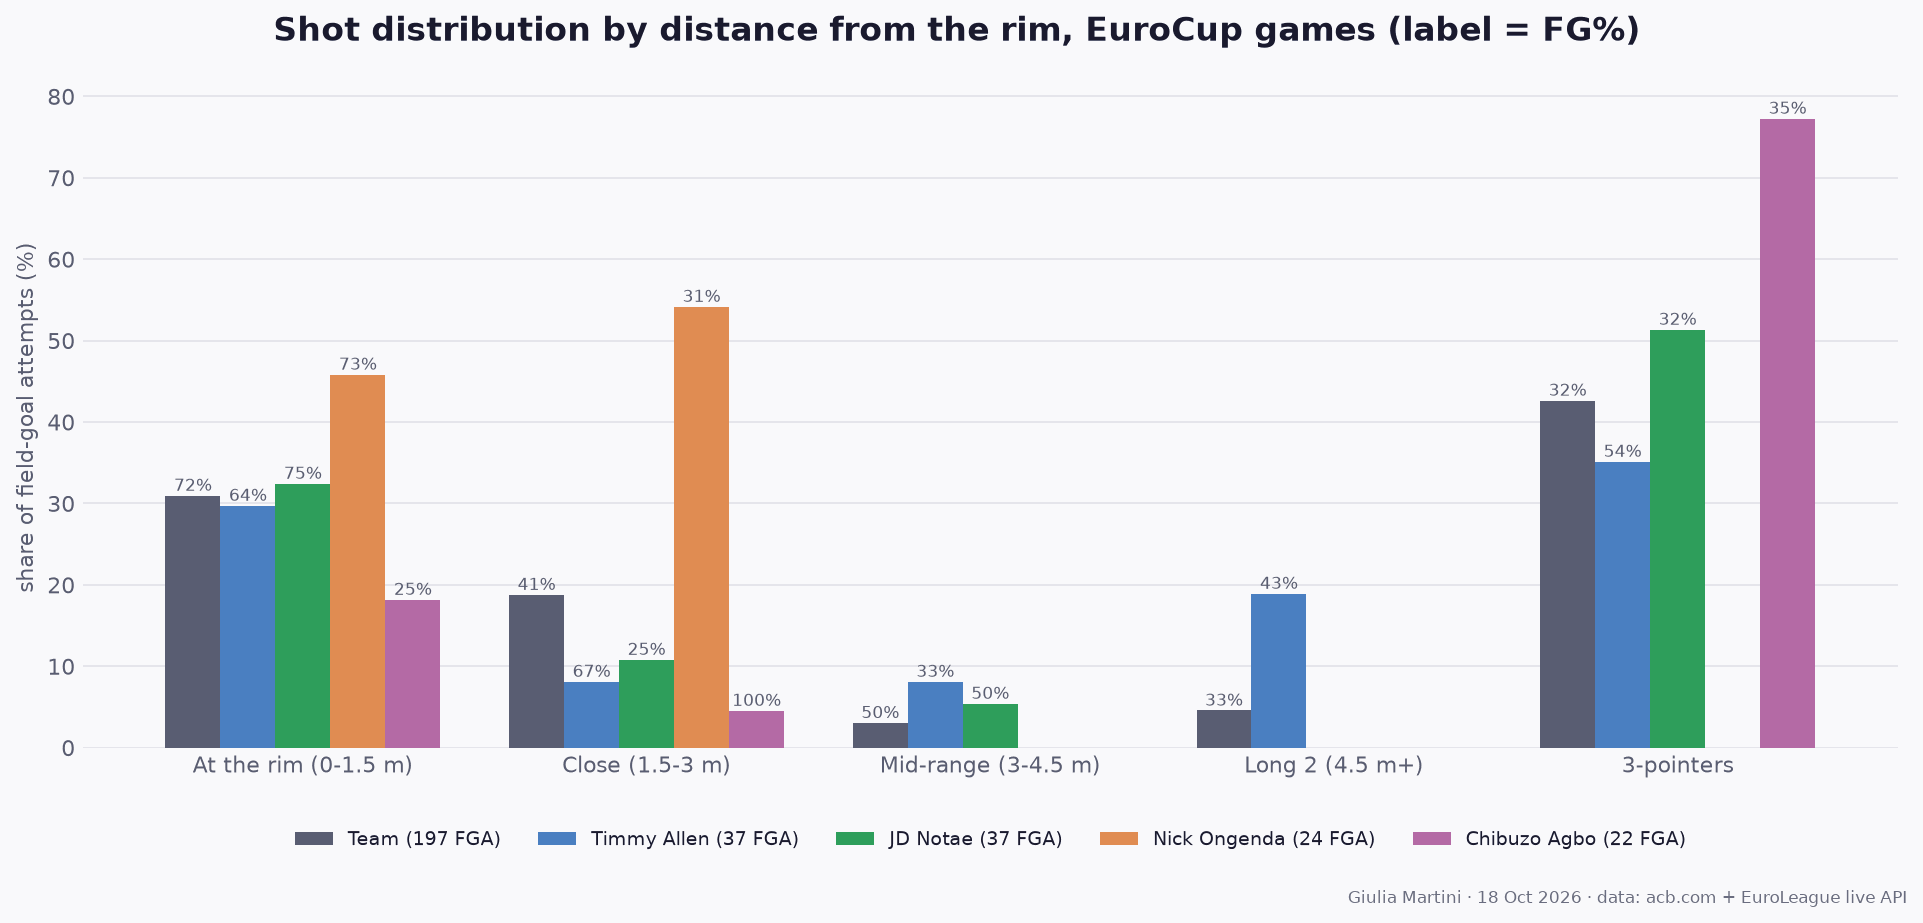
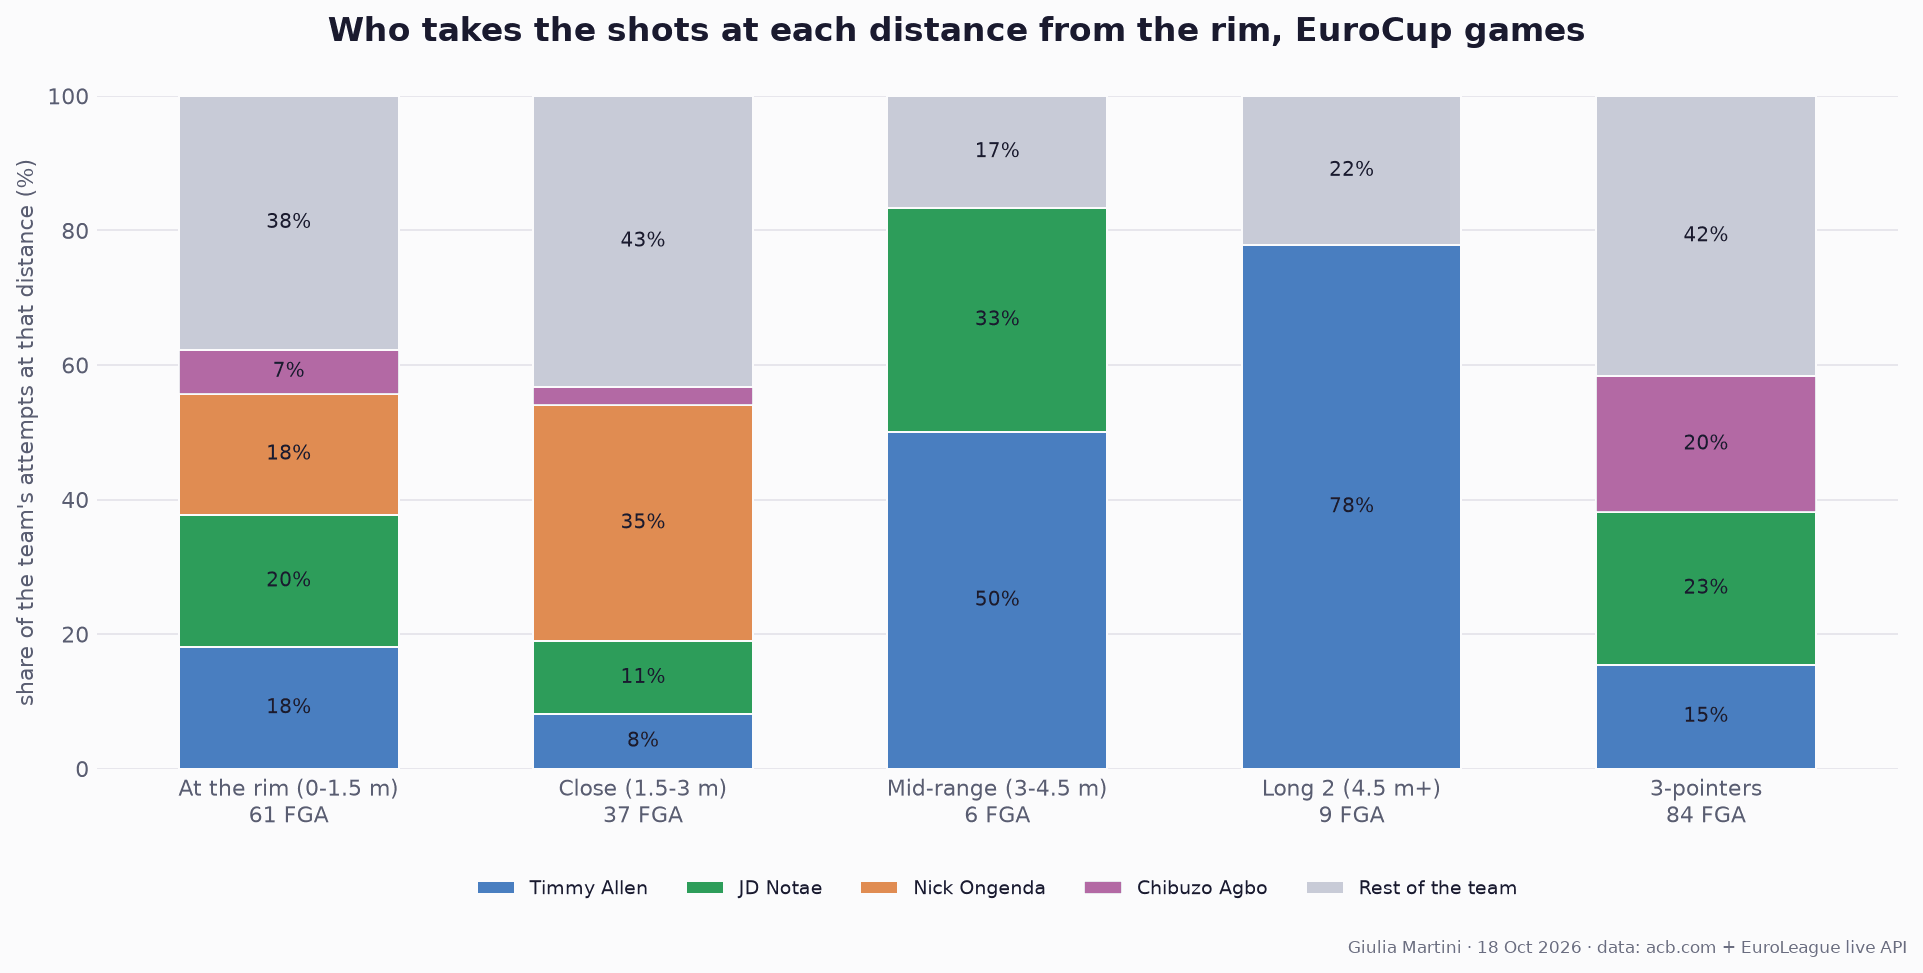
Manresa report: stacked shot-distance chart (main scorers + rest = 100%)

diff --git a/notebooks/manresa_report.py b/notebooks/manresa_report.py
@@ -207,24 +207,33 @@ def distance_table(shots: pd.DataFrame, scorers: list[str]) -> pd.DataFrame:
     return pd.concat(cols, axis=1)
 
 
-def fig_distance(table: pd.DataFrame, out: Path) -> Path:
-    """Grouped bars: share of attempts by distance for the team and each main scorer, FG% on top."""
-    names = table.columns.get_level_values(0).unique()
-    fig, ax = plt.subplots(figsize=(12, 5.5))
-    width = 0.8 / len(names)
-    palette = [TEXT2, BLUE, GREEN, "#e08c52", "#b46aa5"]
-    for k, name in enumerate(names):
-        x = np.arange(len(DIST_LABELS)) + k * width
-        share, fg, att = table[name].share, table[name].fg, table[name].att
-        ax.bar(x, share, width, label=f"{name} ({int(att.sum())} FGA)", color=palette[k % len(palette)])
-        for xi, sh, pct, n in zip(x, share, fg, att):
-            if n:
-                ax.text(xi, sh + 0.6, f"{pct:.0f}%", ha="center", fontsize=7.5, color=TEXT2)
-    ax.set_xticks(np.arange(len(DIST_LABELS)) + width * (len(names) - 1) / 2, DIST_LABELS)
-    ax.set_ylabel("share of field-goal attempts (%)")
+def attempt_split(shots: pd.DataFrame, scorers: list[str]) -> pd.DataFrame:
+    """Per distance bin: each main scorer's share of the team's attempts, plus the rest (sums to 100)."""
+    who = shots.player.where(shots.player.isin(scorers), "Rest of the team")
+    counts = pd.crosstab(shots.bin, who).reindex(index=DIST_LABELS, columns=scorers + ["Rest of the team"],
+                                                 fill_value=0)
+    return counts.div(counts.sum(axis=1), axis=0) * 100, counts.sum(axis=1)
+
+
+def fig_distance(split: pd.DataFrame, totals: pd.Series, out: Path) -> Path:
+    """Stacked bars per distance: who takes the team's shots (main scorers + rest = 100%)."""
+    palette = [BLUE, GREEN, "#e08c52", "#b46aa5", "#c9ccd8"]
+    fig, ax = plt.subplots(figsize=(12, 5.8))
+    bottom = np.zeros(len(split))
+    for color, name in zip(palette, split.columns):
+        ax.bar(range(len(split)), split[name], bottom=bottom, color=color, label=name, width=0.62,
+               edgecolor="white", linewidth=0.8)
+        for i, val in enumerate(split[name]):
+            if val >= 6:
+                ax.text(i, bottom[i] + val / 2, f"{val:.0f}%", ha="center", va="center", fontsize=9,
+                        color=TEXT)
+        bottom += split[name].values
+    ax.set_xticks(range(len(split)), [f"{label}\n{int(totals[label])} FGA" for label in split.index])
+    ax.set_ylim(0, 100)
+    ax.set_ylabel("share of the team's attempts at that distance (%)")
     style_axes(ax, "y")
-    ax.legend(ncols=len(names), loc="upper center", bbox_to_anchor=(0.5, -0.1), fontsize=8.5)
-    fig.suptitle("Shot distribution by distance from the rim, EuroCup games (label = FG%)", **SUP_KW)
+    ax.legend(ncols=len(split.columns), loc="upper center", bbox_to_anchor=(0.5, -0.14), fontsize=8.5)
+    fig.suptitle("Who takes the shots at each distance from the rim, EuroCup games", **SUP_KW)
     path = out / "03_shot_distance.png"
     save_fig(fig, path)
     plt.close(fig)
@@ -296,7 +305,7 @@ def extra_sections(starters: pd.DataFrame, assists: pd.DataFrame, matrix: pd.Dat
     L += ["", "## Shot distribution by distance from the rim", "", "![distance](03_shot_distance.png)", "",
           "EuroCup games only (3 games, "
           f"{len(shots)} attempts): ACB does not publish shot locations. Main scorers = top 4 by total points. "
-          "Share of own attempts / FG%:", "",
+          "Table: share of each player's own attempts / FG%. The chart shows who takes the team's attempts at each distance.", "",
           "| Distance | " + " | ".join(dist.columns.get_level_values(0).unique()) + " |",
           "|---|" + "---|" * len(dist.columns.get_level_values(0).unique())]
     for label in DIST_LABELS:
@@ -361,7 +370,8 @@ def main() -> None:
     dist = distance_table(shots, scorers)
     starters = starters_table(box, games)
     _, matrix = fig_assists(assists, out)
-    fig_distance(dist, out)
+    split, totals = attempt_split(shots, scorers)
+    fig_distance(split, totals, out)
     fig_shot_charts(shots, scorers, out)
     units = aggregate_units(lineup_stints(events, games))
     fig_players(table, out)

diff --git a/reports/matchup_Kids_Us_Manresa_scouting_before_2026-10-18/README.md b/reports/matchup_Kids_Us_Manresa_scouting_before_2026-10-18/README.md
@@ -101,7 +101,7 @@ Most frequent combinations:
 
 ![distance](03_shot_distance.png)
 
-EuroCup games only (3 games, 197 attempts): ACB does not publish shot locations. Main scorers = top 4 by total points. Share of own attempts / FG%:
+EuroCup games only (3 games, 197 attempts): ACB does not publish shot locations. Main scorers = top 4 by total points. Table: share of each player's own attempts / FG%. The chart shows who takes the team's attempts at each distance.
 
 | Distance | Team | Timmy Allen | JD Notae | Nick Ongenda | Chibuzo Agbo |
 |---|---|---|---|---|---|
